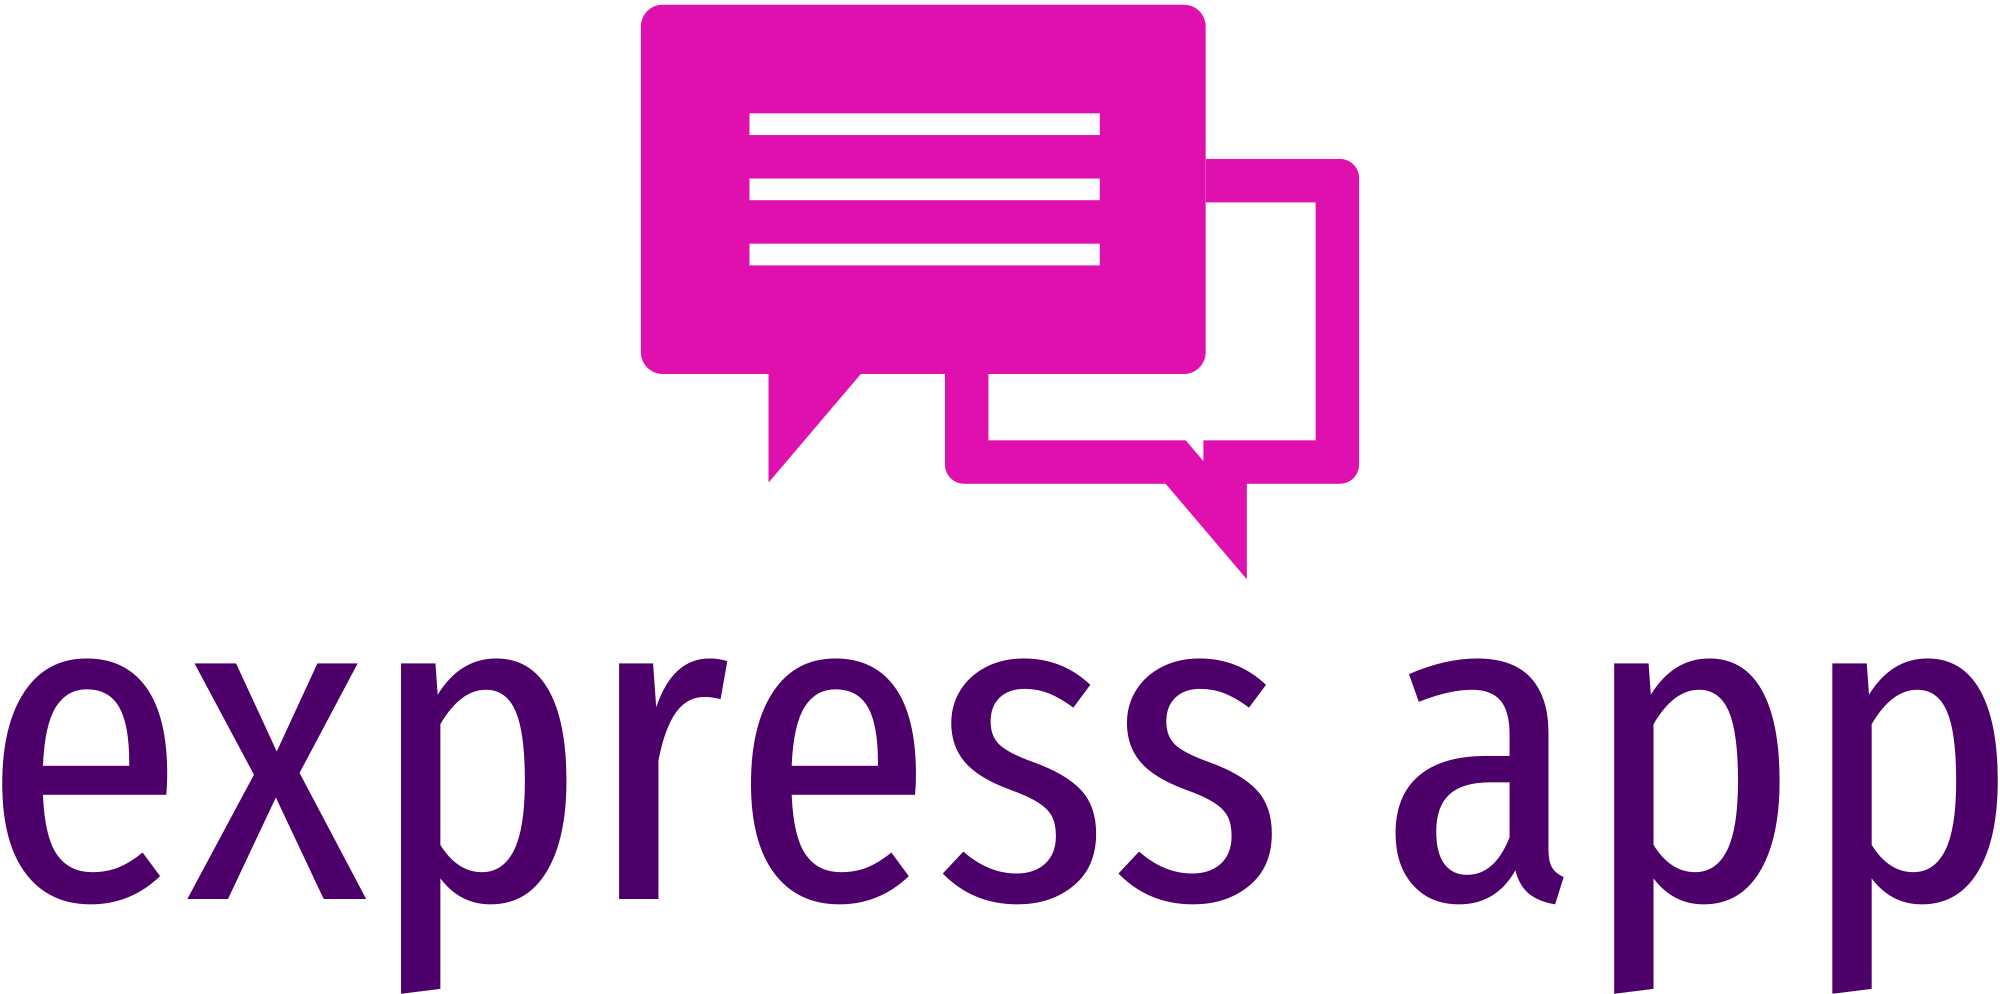
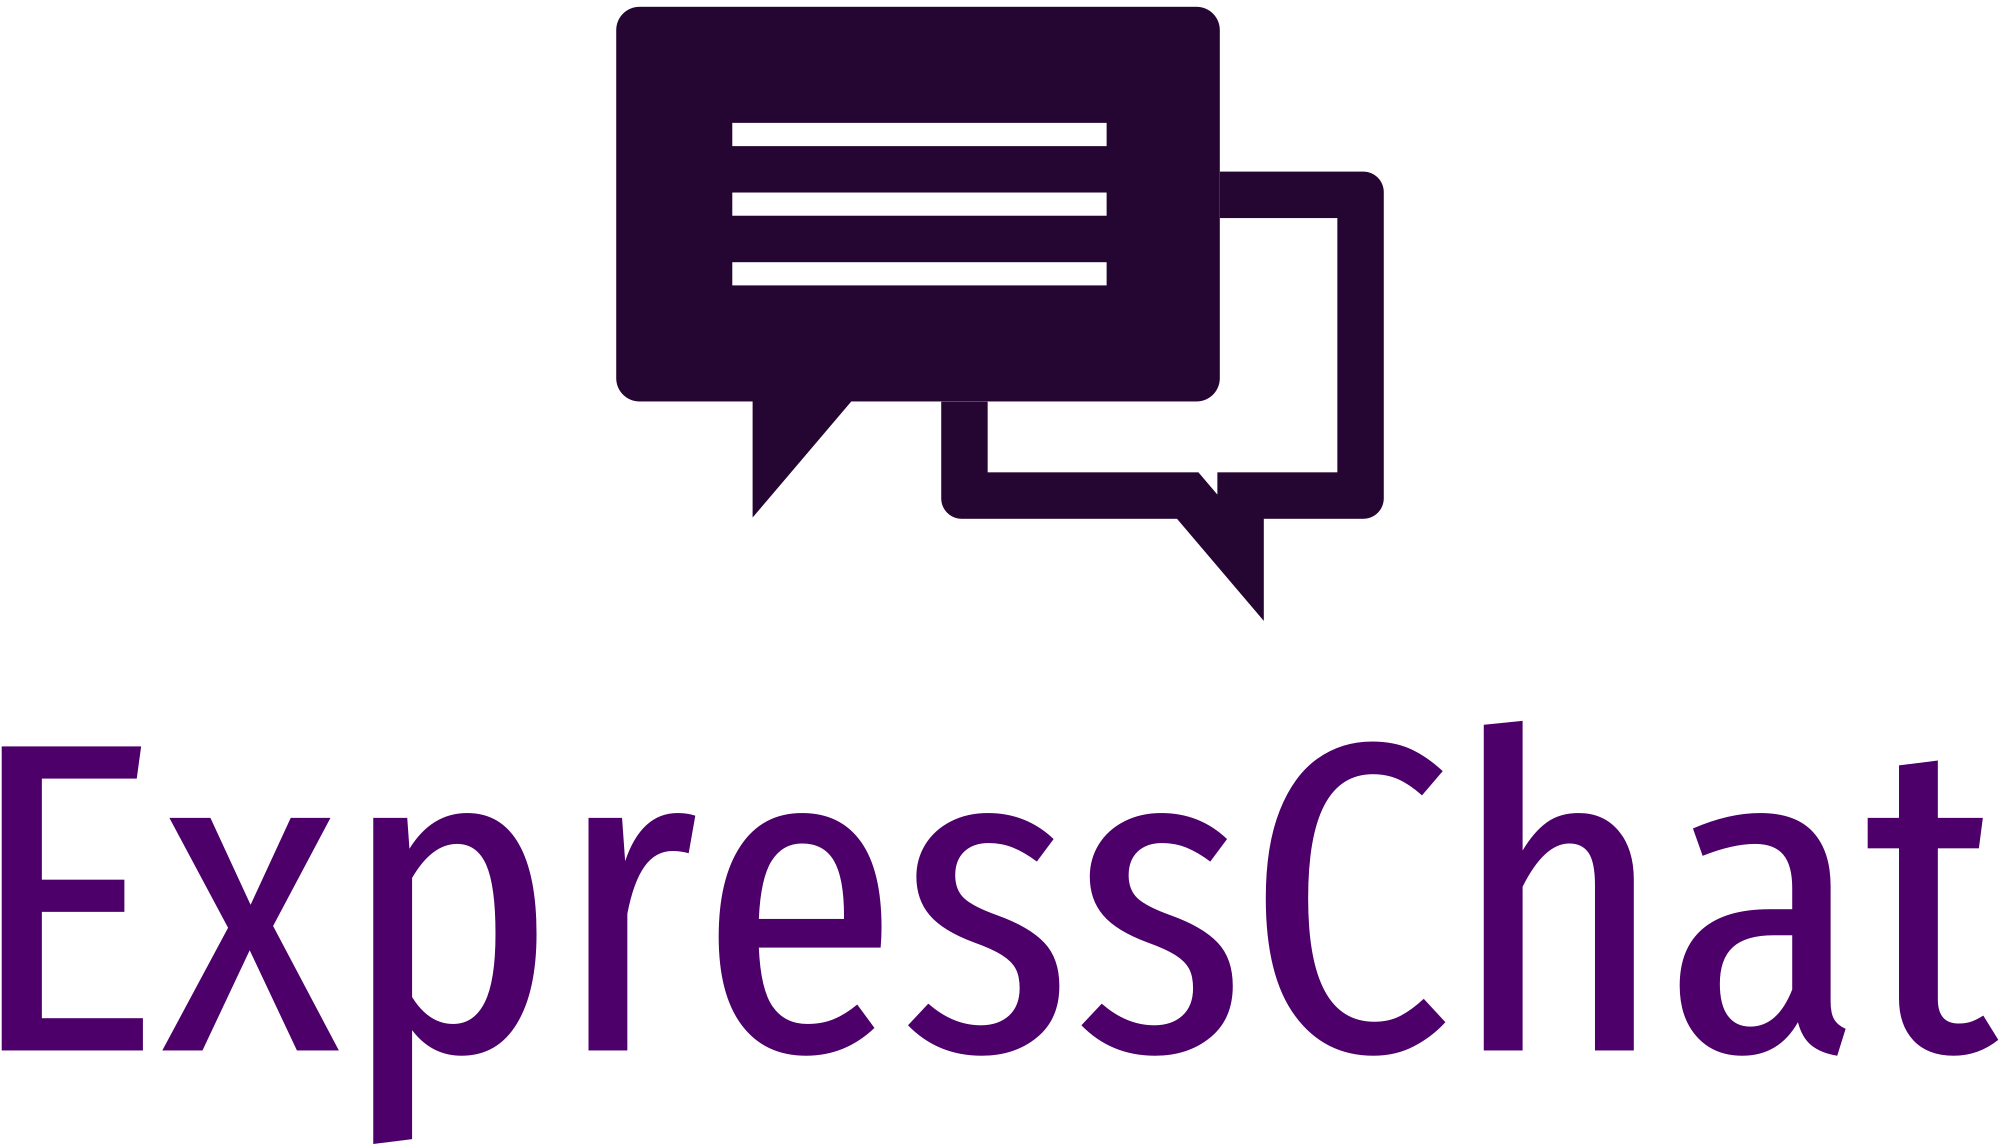
commit

Changed region(s): [[0.0, 0.6237, 1.0, 1.0], [0.31, 0.0, 0.713, 0.5614]]

diff --git a/src/pages/Chat/Chat.jsx b/src/pages/Chat/Chat.jsx
@@ -23,7 +23,7 @@ const Chat = () => {
         loading
         ?<div className="loading">
           <img src={assets.express_load} alt="" />
-          <p className='loading'>Loading Express App <br/> please wait...</p>
+          <p className='loading'>Loading ExpressChat <br/> please wait...</p>
         </div>
         :<div className="chat-container">
         <LeftSidebar />

diff --git a/src/components/LeftSidebar/LeftSidebar.jsx b/src/components/LeftSidebar/LeftSidebar.jsx
@@ -8,6 +8,7 @@ import { db, logout } from "../../config/firebase";
 import { toast } from "react-toastify";
 
 const LeftSidebar = () => {
+  
   const navigate = useNavigate();
   const { userData,chatData,chatUser,setChatUser,setMessagesId,messagesId,chatVisible,setChatVisible } = useContext(AppContext);
 

diff --git a/src/components/RightSidebar/RightSidebar.css b/src/components/RightSidebar/RightSidebar.css
@@ -48,8 +48,10 @@
 }
 .rs-media div img{
     width: 60px;
+    height: 50px;
     border-radius: 4px;
     cursor: pointer;
+    object-fit: cover;
 }
 .rs button{
     position: absolute;
